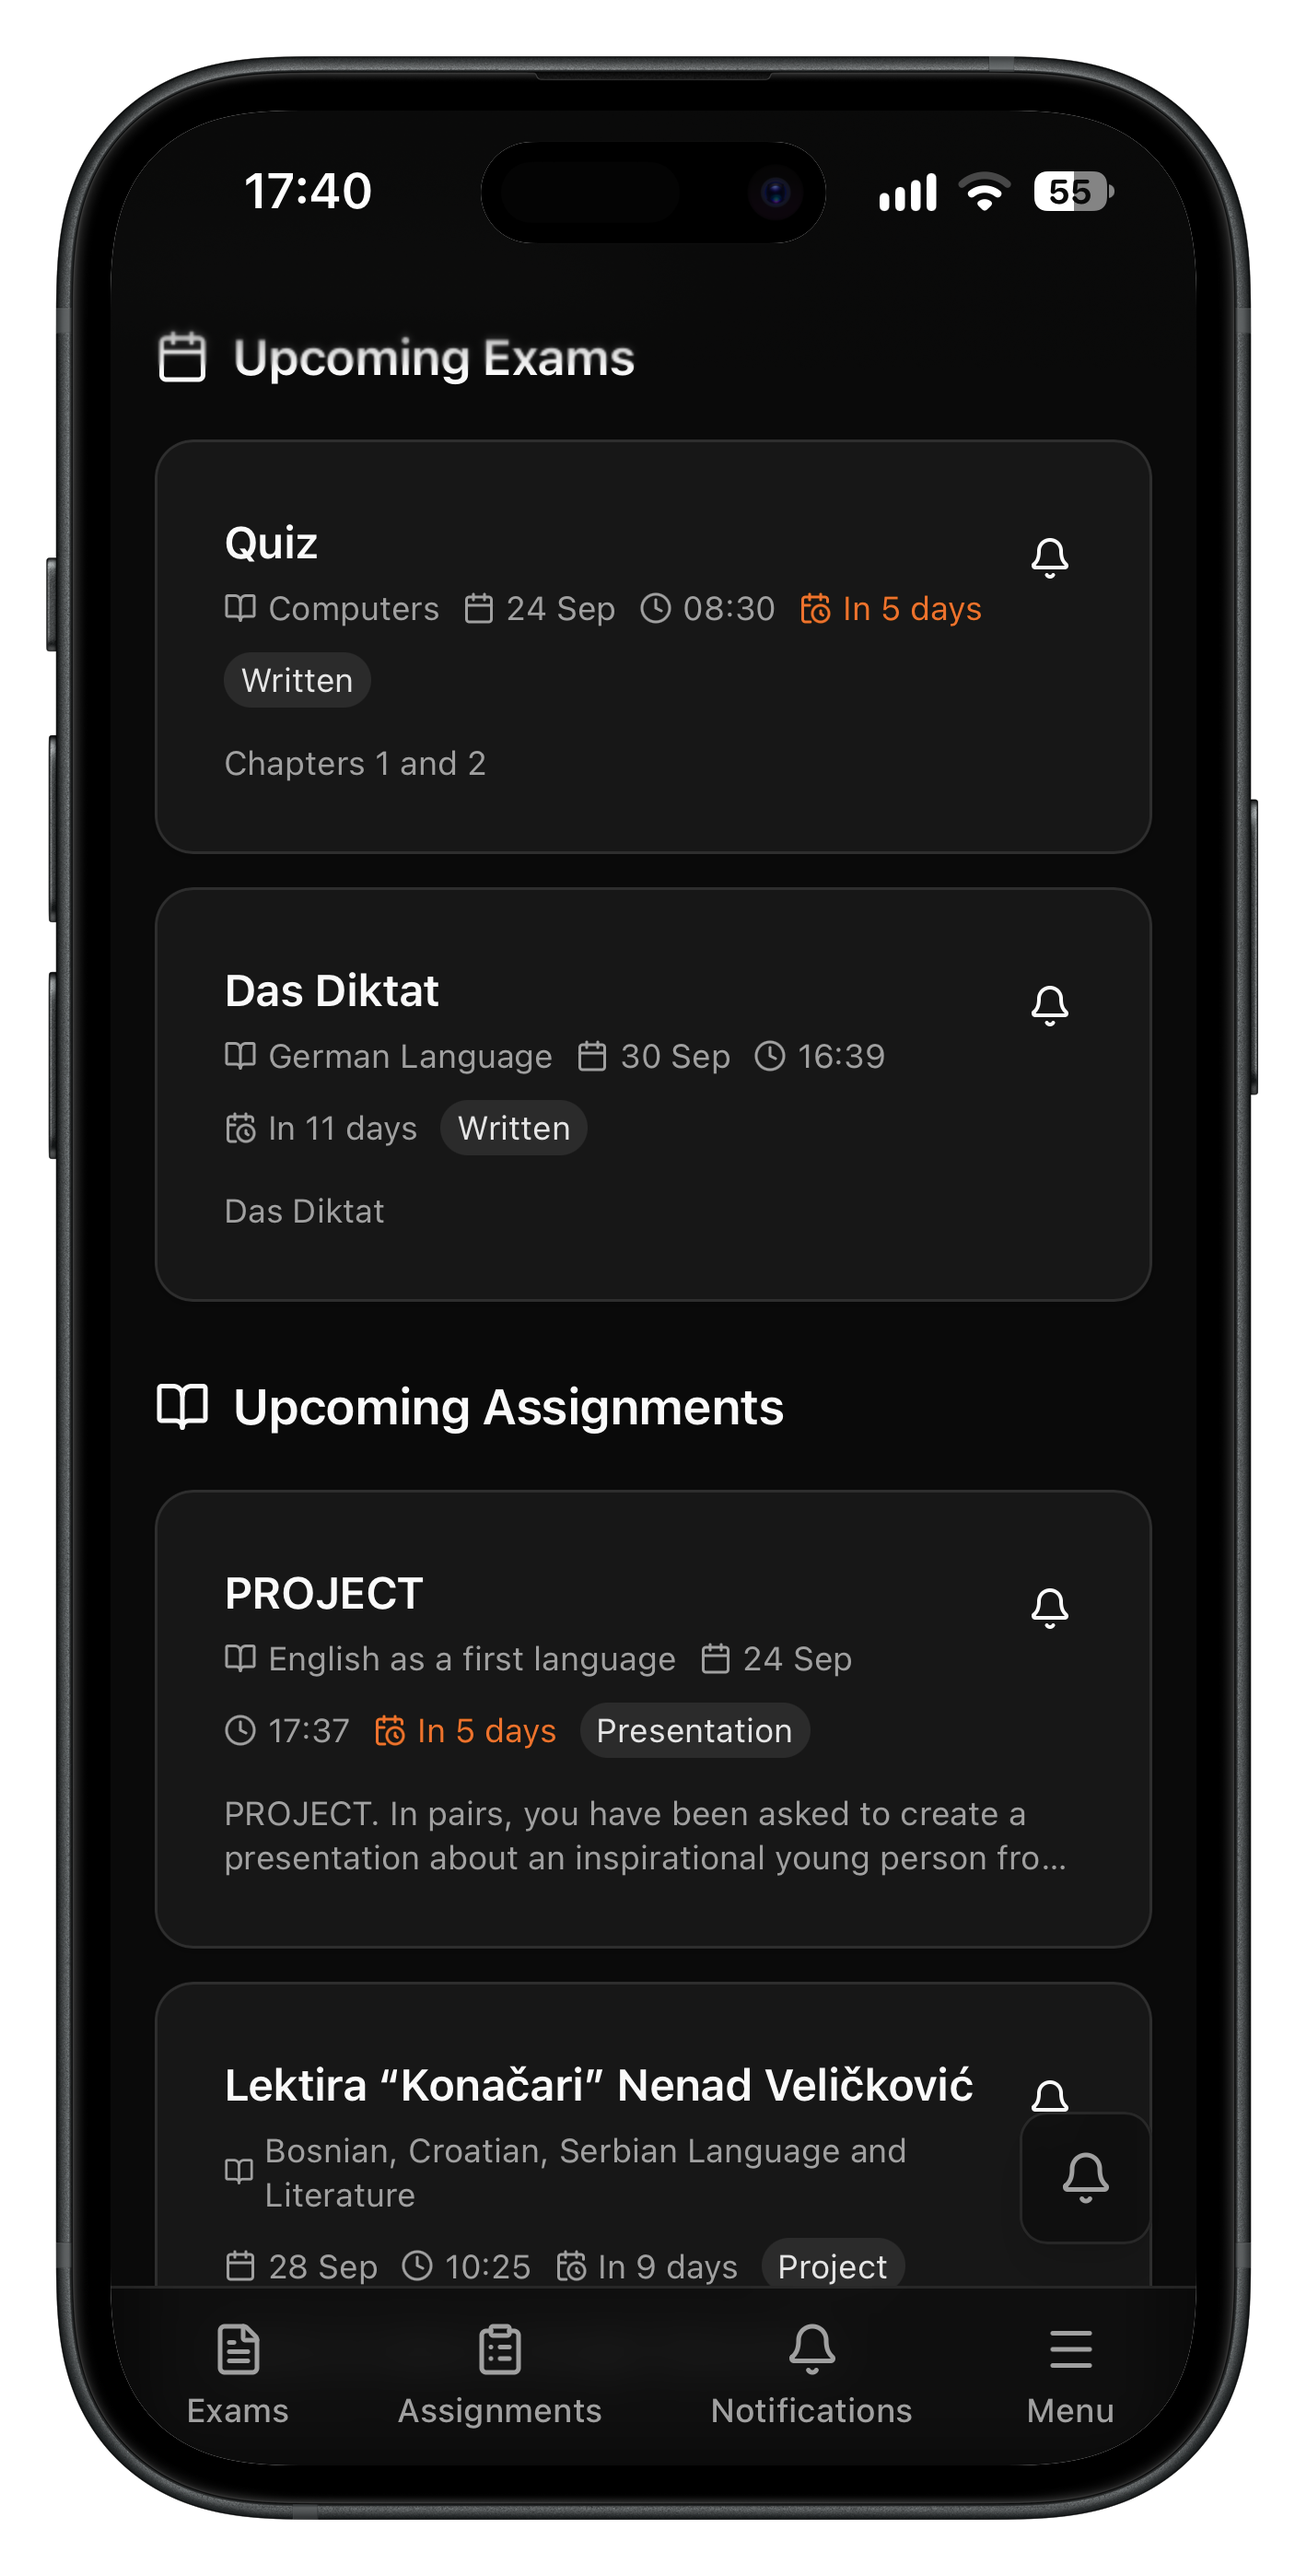
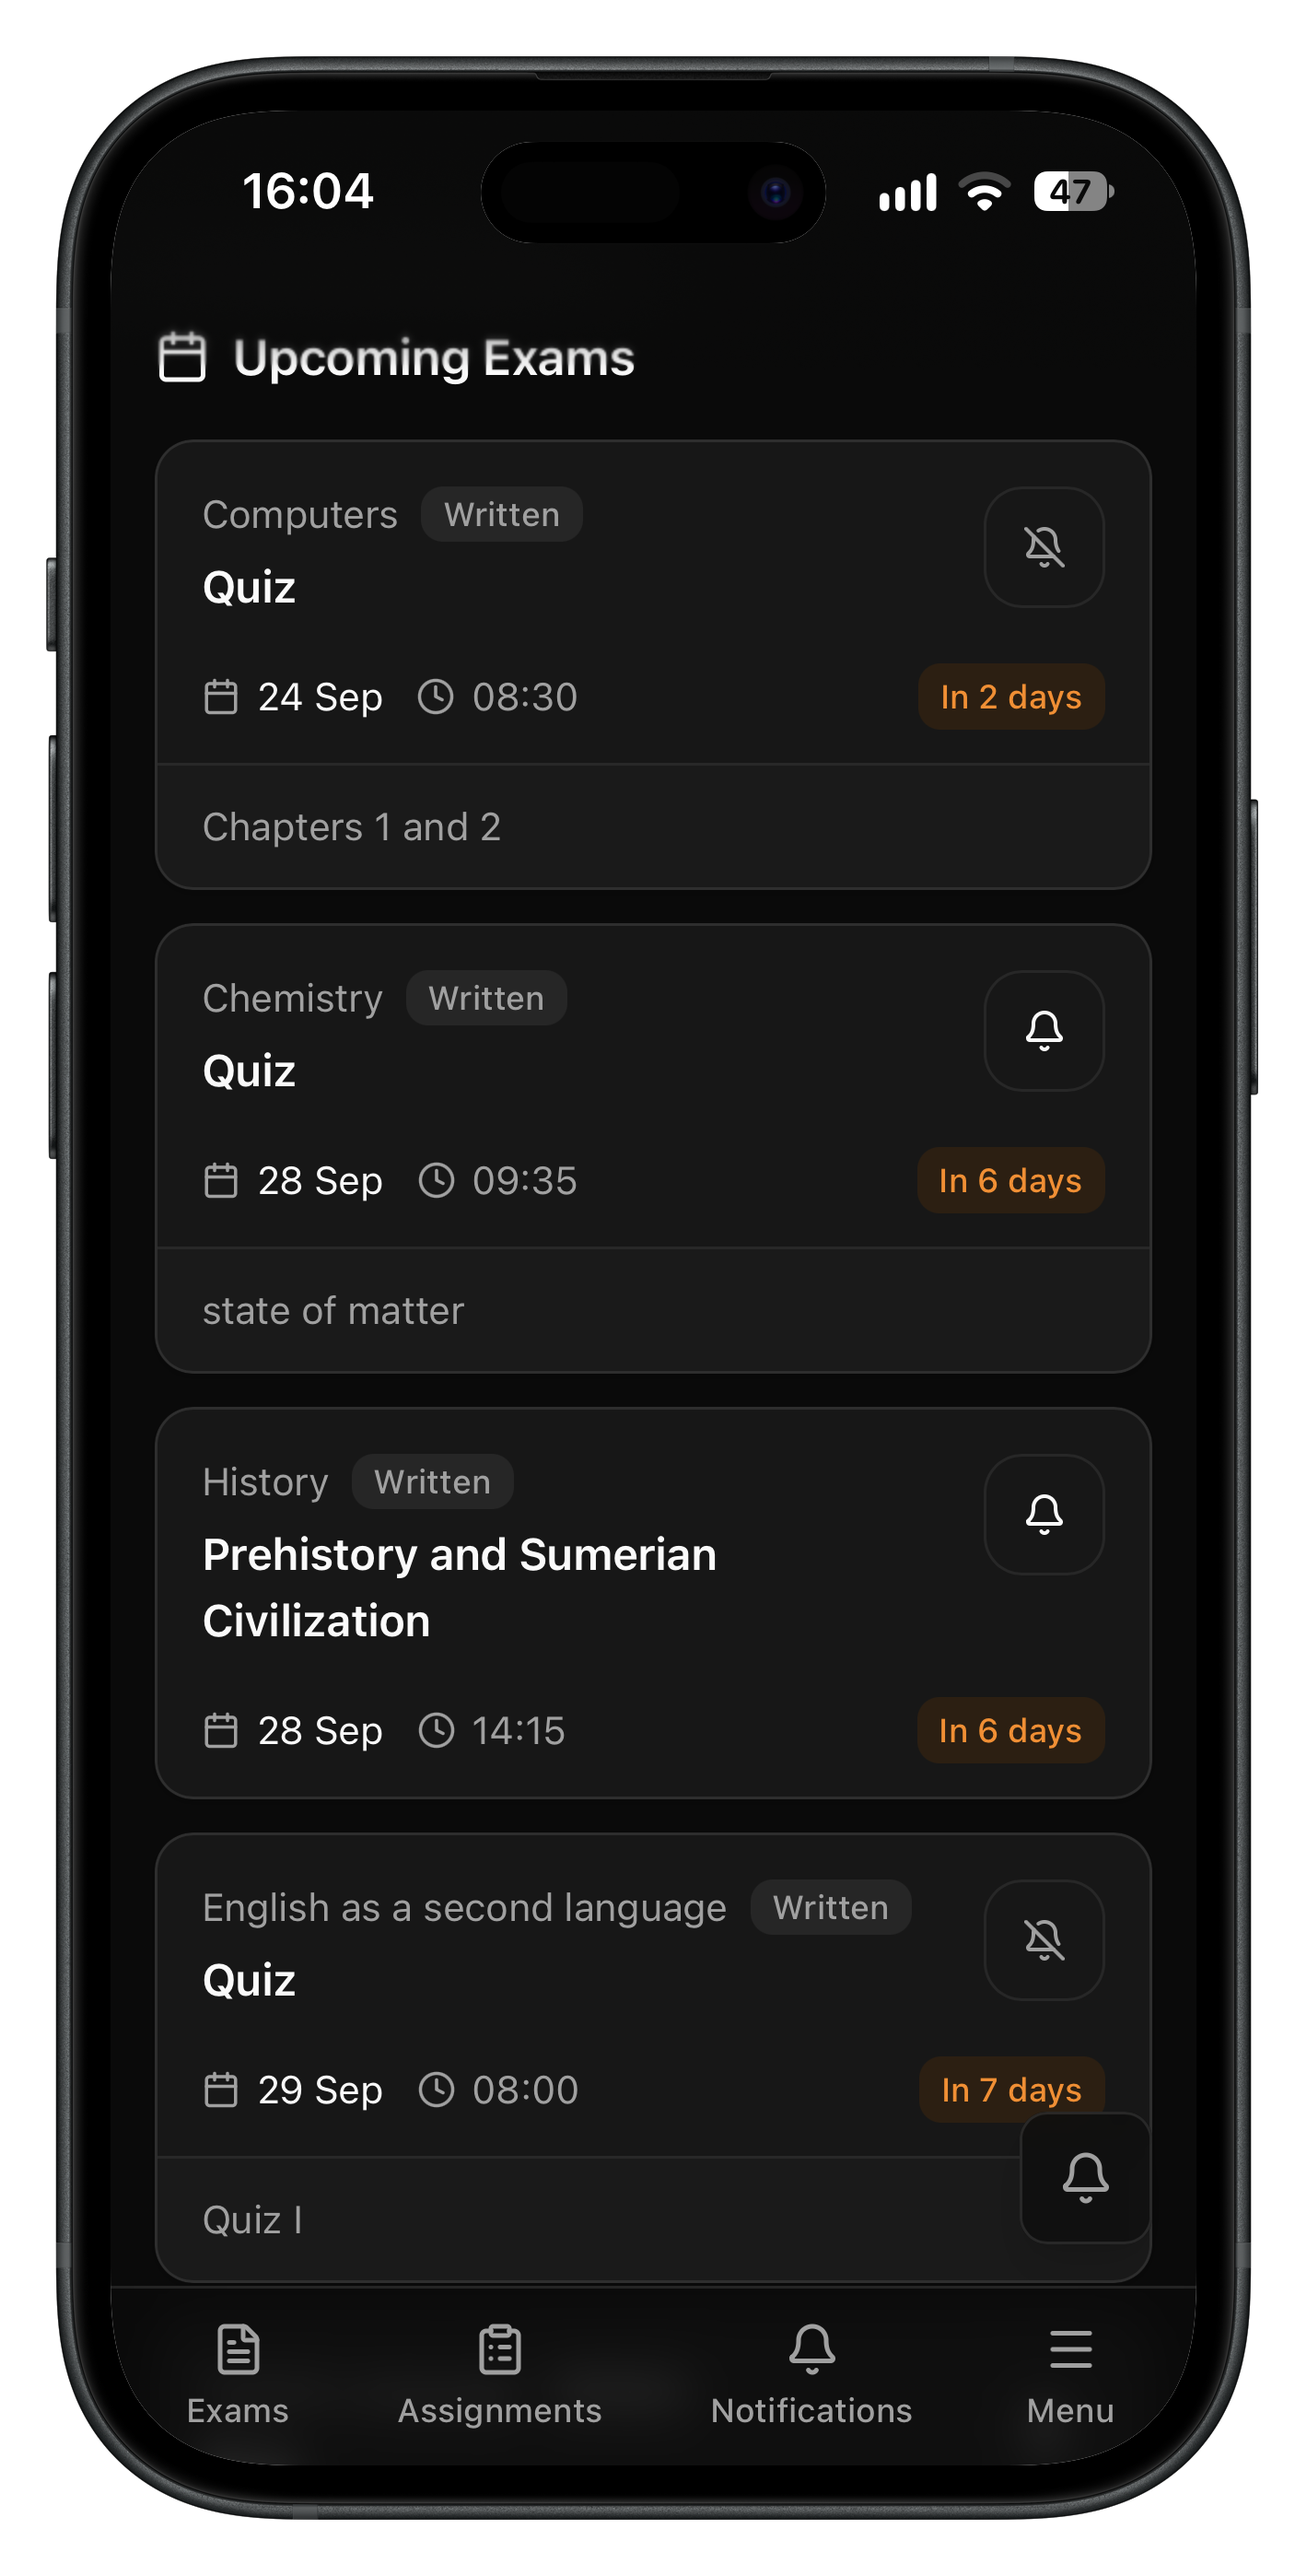
feat: update inbox navigation and homepage screenshots
- Rename the notification center to Inbox with updated iconography
- Refresh light and dark iOS screenshot assets

diff --git a/components/app-sidebar.tsx b/components/app-sidebar.tsx
@@ -8,7 +8,7 @@ import Link from "next/link"
 import Image from "next/image"
 import { usePathname } from "next/navigation"
 import { useTheme } from "next-themes"
-import { Home, FileText, ClipboardList, User, LogOut, Sun, Moon, DollarSign, Bell, Ticket, BarChart3, Users, Wallet, GraduationCap, History } from "lucide-react"
+import { Home, FileText, ClipboardList, User, LogOut, Sun, Moon, DollarSign, Bell, Inbox, Ticket, BarChart3, Users, Wallet, GraduationCap, History } from "lucide-react"
 
 import {
   Sidebar,
@@ -76,16 +76,16 @@ function NotificationDropdown() {
   return (
     <DropdownMenu open={open} onOpenChange={setOpen}>
       <DropdownMenuTrigger asChild>
-        <SidebarMenuButton tooltip="Notification Center">
+        <SidebarMenuButton tooltip="Inbox">
           <div className="relative">
-            <Bell className="h-4 w-4" />
+            <Inbox className="h-4 w-4" />
             {unreadCount > 0 && (
               <span className="absolute -right-1 -top-1 flex h-3.5 w-3.5 items-center justify-center rounded-full bg-destructive text-[9px] font-medium text-destructive-foreground">
                 {unreadCount > 9 ? "9+" : unreadCount}
               </span>
             )}
           </div>
-          <span>Notification Center</span>
+          <span>Inbox</span>
         </SidebarMenuButton>
       </DropdownMenuTrigger>
       <DropdownMenuContent
